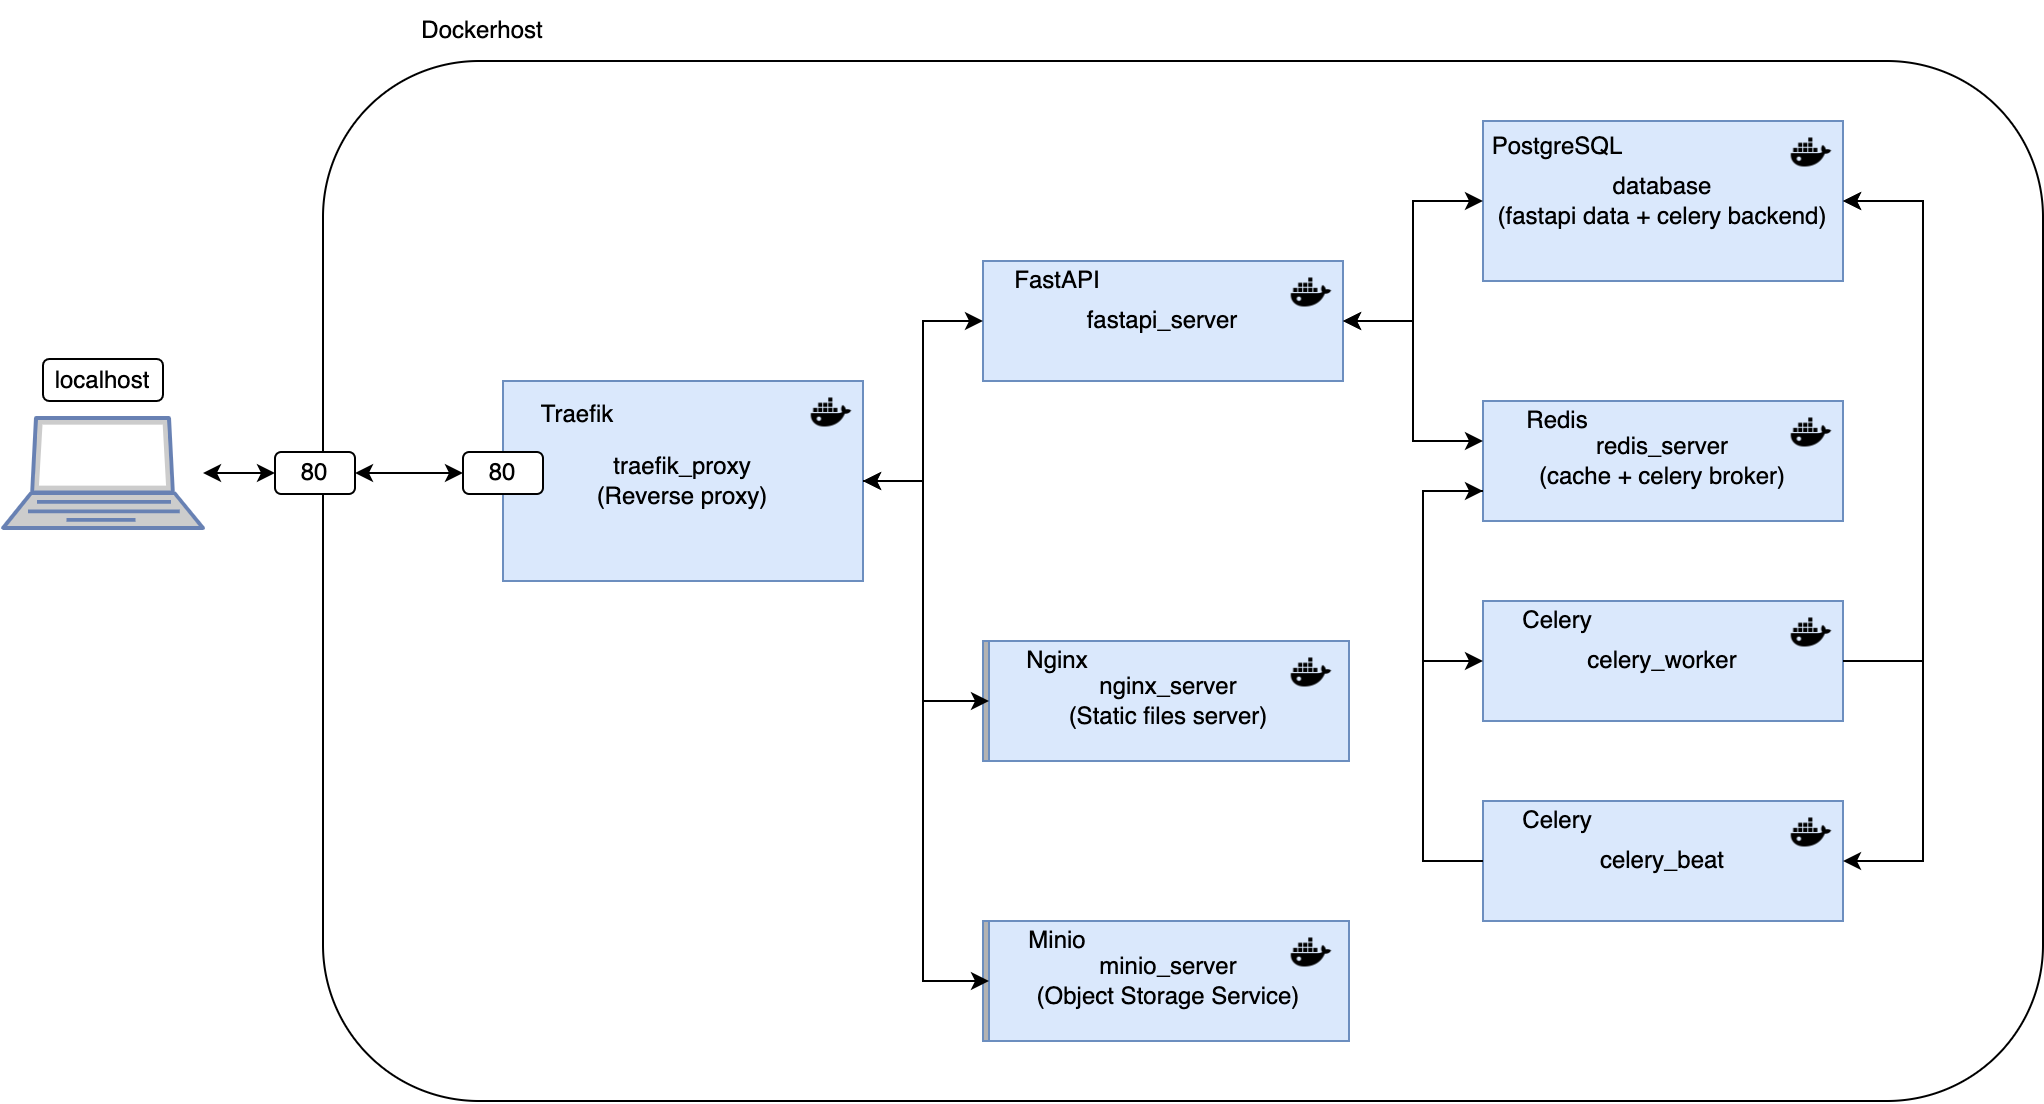
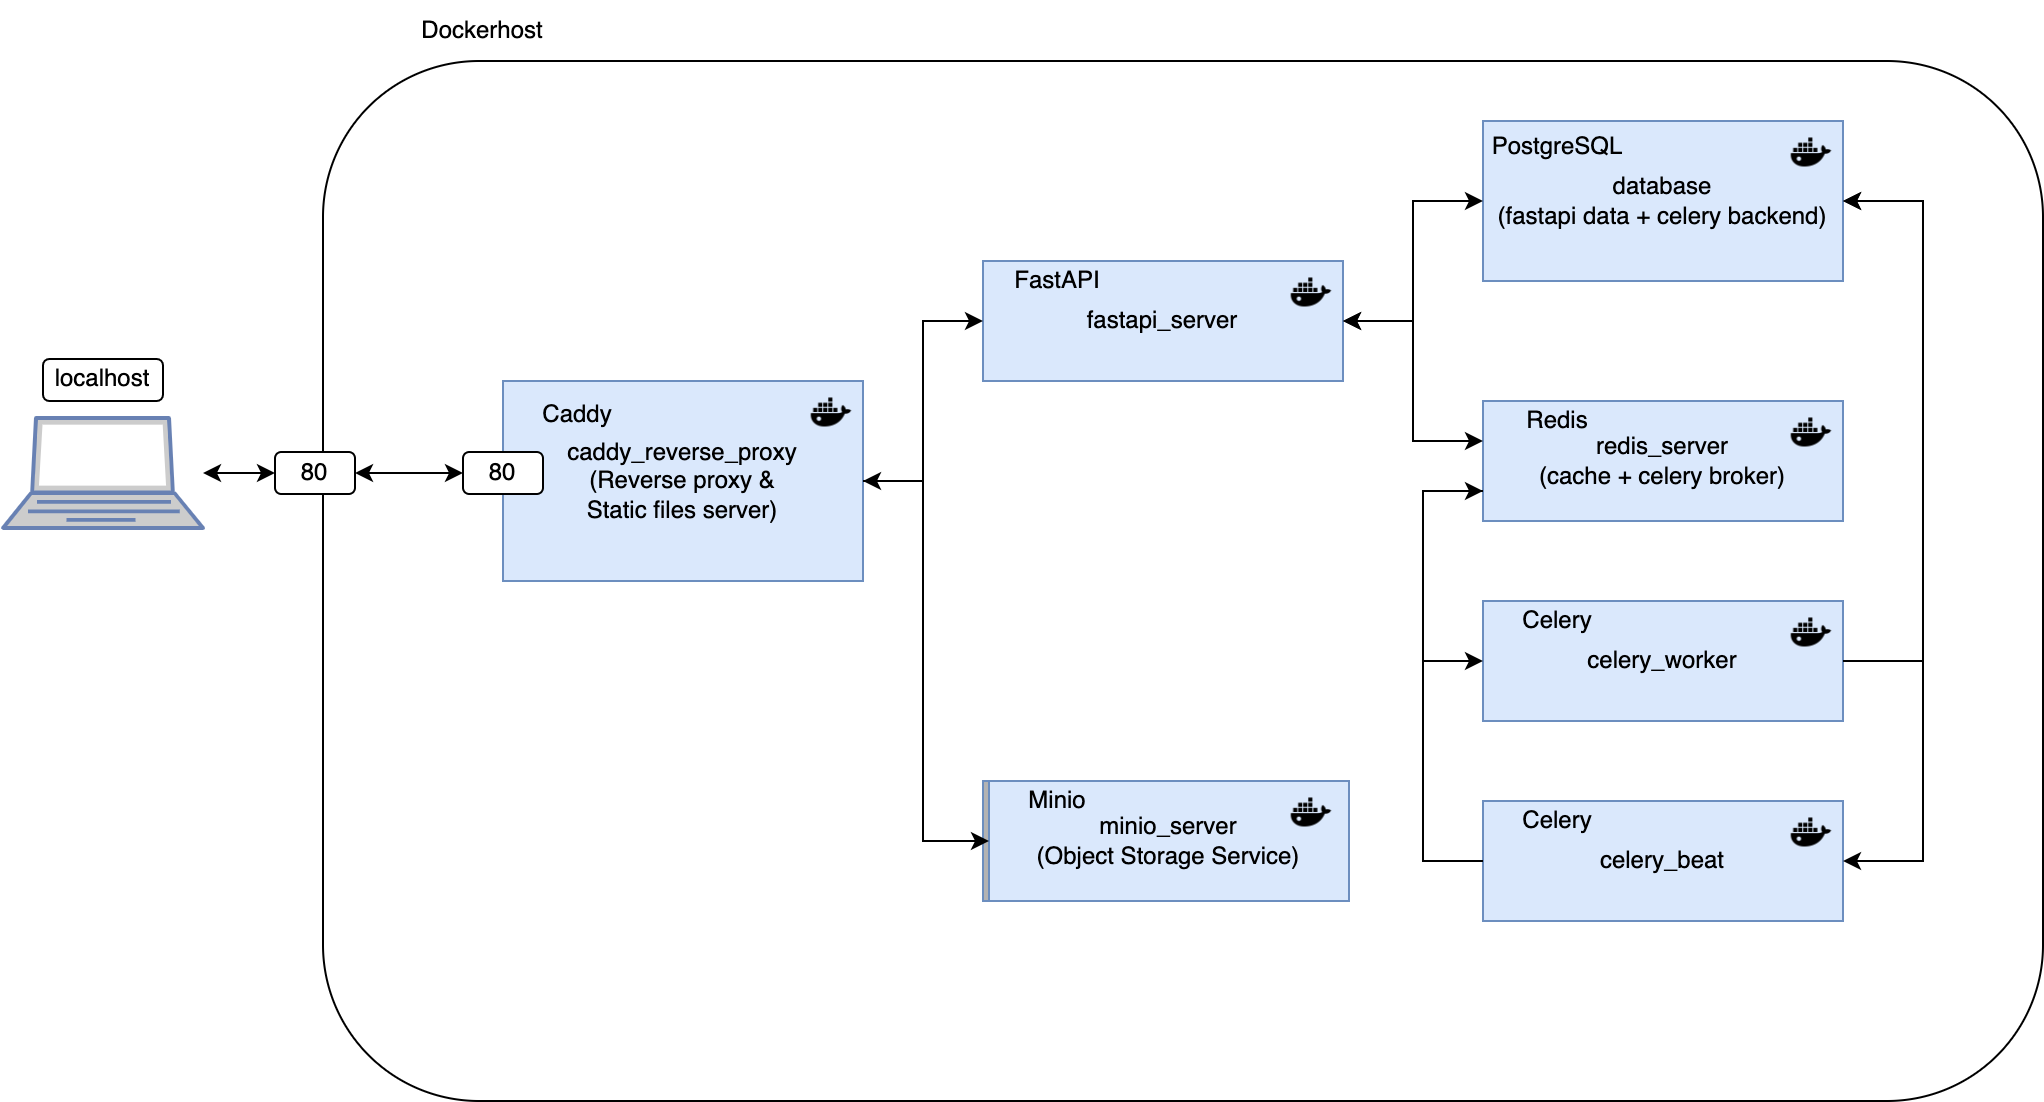
Add caddy as reverse procy

diff --git a/README.md b/README.md
@@ -79,7 +79,7 @@ This starts pgamin in [http://localhost:15432](http://localhost:15432).
   <img src="static/container_architecture.png" align="center"/>
 </p>
 
-As this project uses [traefik](https://doc.traefik.io/traefik/routing/routers/) as a reverse proxy, which uses namespaces routing, you can access the documentation with the following path [http://fastapi.localhost/docs](http://fastapi.localhost/docs)
+As this project uses [Caddy](https://caddyserver.com/) as a reverse proxy, which uses namespaces routing, you can access the documentation with the following path [http://fastapi.localhost/docs](http://fastapi.localhost/docs)
 
 ## Preview
   
@@ -90,18 +90,8 @@ As this project uses [traefik](https://doc.traefik.io/traefik/routing/routers/) 
   <img src="static/2.png" align="center"/>
 </p>
 
-## Traefik Dashboard
-Traefik has been configurated as a reverse proxy on the ingress of the project; you can access Traefik Dashboard using the following link [http://traefik.localhost/](http://traefik.localhost/). You should use **username: test** and **pass: test**. If you want to change the password, you can find more information on how to do it [here](https://doc.traefik.io/traefik/operations/api/)
-
-<p align="center">
-  <img src="static/traefik1.png" align="center"/>
-</p>
-<p align="center">
-  <img src="static/traefik2.png" align="center"/>
-</p>
-
 ## Static files
-All files on static folder will be served by nginx container as static files. You can check it with this link [http://nginx.localhost/1.png](http://nginx.localhost/1.png)
+All files on static folder will be served by Caddy container as static files. You can check it with this link [http://static.localhost](http://static.localhost)
 
 ## Minio server
 This template allows users can upload their photos. The images are stored using the open source Object Storage Service (OSS) [minio](https://min.io/), which provides storage of images using buckets in a secure way through presigned URLs.
@@ -265,8 +255,7 @@ When the build is successful, you can see the SonarQube screen automatically ref
 - [x] Add JWT authentication
 - [x] Add Pagination
 - [x] Add User birthday field with timezone
-- [x] Add reverse proxy (traefik) with docker compose
-- [x] Add static server with nginx
+- [x] Add static server
 - [x] Add basic RBAC (Role base access control)
 - [x] Add sample heroes, teams and groups on init db
 - [x] Add cache configuration using fastapi-cache2 and redis
@@ -290,7 +279,7 @@ When the build is successful, you can see the SonarQube screen automatically ref
 - [x] Upgrade typing (Compatible just with python > 3.10)
 - [x] Add sample transformers NLP models and use them globally
 - [x] Add Celery samples for tasks, and schedule tasks
-- [ ] Migrate from traefik reverse proxy to Caddy reverse proxy for automatic ssl
+- [x] Migrate from traefik reverse proxy to Caddy reverse proxy for automatic ssl
 - [ ] Add a nextjs sample frontend
 - [ ] Add testing
 - [ ] Add jsonb field on table sample

diff --git a/CHANGELOG.md b/CHANGELOG.md
@@ -1,5 +1,12 @@
 # Project Changelog
 
+
+## v0.1.17 (2023-04-01)
+
+#### 💅 Polish
+
+- `Migrate from traefik to Caddy as reverse proxy server`
+
 ## v0.1.16 (2023-03-25)
 
 #### 💅 Polish
